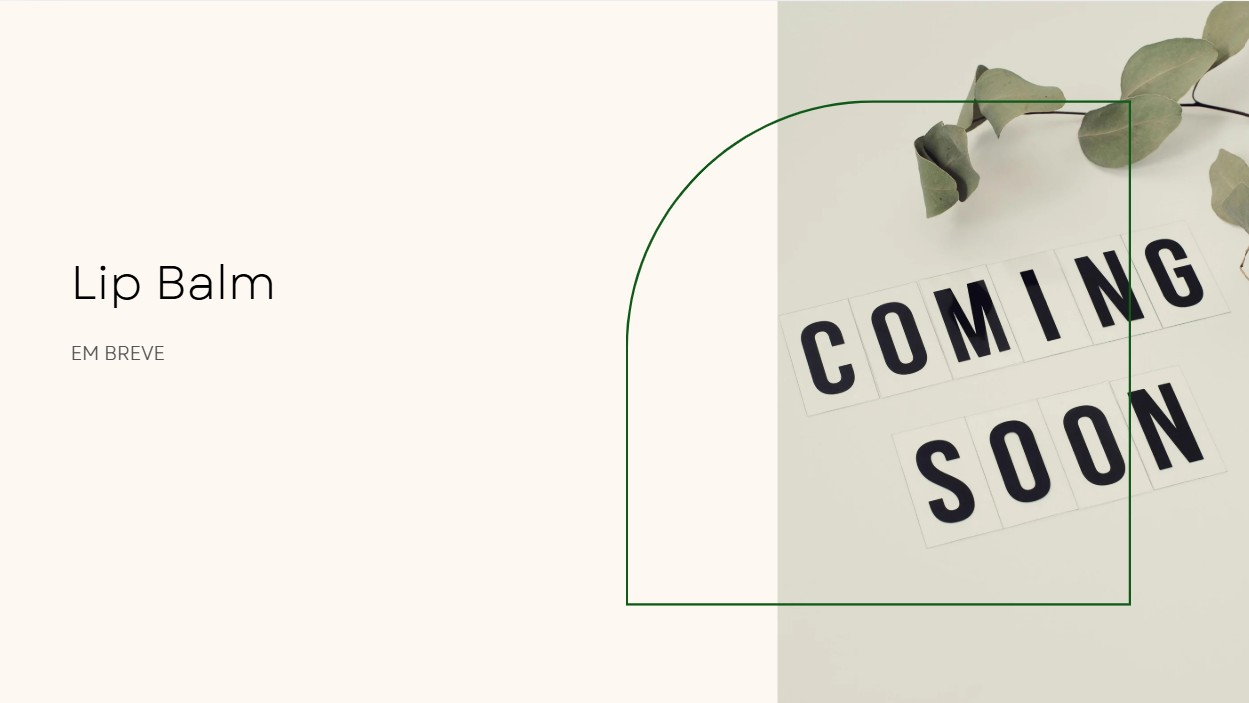
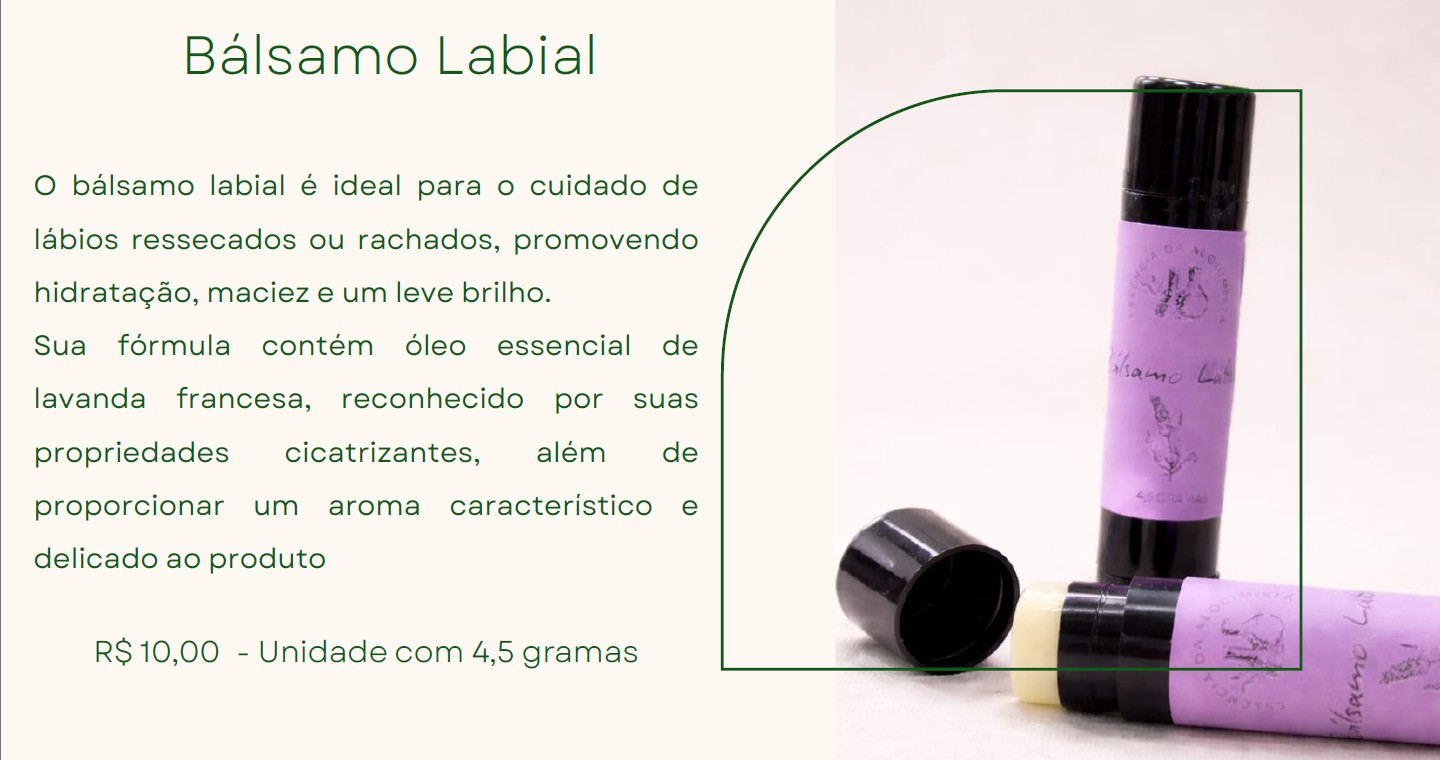
instagram

diff --git a/src/App.tsx b/src/App.tsx
@@ -45,20 +45,20 @@ const products = [
     id: 4,
     name: 'Lip Balm',
     description: 'Hidratação profunda e natural para os seus lábios. Fórmula exclusiva em desenvolvimento.',
-    price: 'Em breve',
+    price: 'R$ 25,00',
     image: '/lipbalm.jpg',
     color: 'bg-pink-100/40',
-    isComingSoon: true,
+    isComingSoon: false,
     category: 'cosmetico',
   },
   {
     id: 5,
     name: 'Bruma de Aloe Vera',
     description: 'Refrescância e cuidado botânico para a sua pele. Aguarde nosso próximo lançamento.',
-    price: 'Em breve',
+    price: 'R$ 25,00',
     image: '/bruna.jpg',
     color: 'bg-green-100/40',
-    isComingSoon: true,
+    isComingSoon: false,
     category: 'cosmetico',
   },
 ];
@@ -266,11 +266,6 @@ export default function App() {
                   className="w-full h-auto object-cover group-hover:scale-[1.03] transition-transform duration-700"
                   referrerPolicy="no-referrer"
                 />
-                
-                <div className="absolute inset-0 bg-gradient-to-t from-black/60 via-transparent to-transparent opacity-0 group-hover:opacity-100 transition-opacity duration-500 flex flex-col justify-end p-8">
-                   <h3 className="text-white text-2xl font-serif italic mb-2">{product.name}</h3>
-                   <p className="text-white/80 text-sm italic font-light mb-4">{product.description}</p>
-                </div>
 
                 <button 
                   onClick={() => handleWhatsAppClick(product.name)}
@@ -313,7 +308,7 @@ export default function App() {
       {/* Footer */}
       <footer id="contato" className="bg-[#1A2E1A] text-white pt-16 pb-8">
         <div className="max-w-7xl mx-auto px-4 sm:px-6 lg:px-8">
-          <div className="grid grid-cols-1 md:grid-cols-3 gap-12 mb-12">
+          <div className="grid grid-cols-1 md:grid-cols-2 lg:grid-cols-4 gap-12 mb-12">
             <div>
               <div className="flex items-center gap-3 mb-6">
                 <div className="bg-white/90 rounded-full p-1">
@@ -338,6 +333,19 @@ export default function App() {
                   [email redacted]
                 </li>
               </ul>
+            </div>
+
+            <div>
+              <h4 className="font-serif text-2xl font-medium italic tracking-wide mb-6 text-white">Instagram</h4>
+              <a 
+                href="https://www.instagram.com/essencia_alquimista?utm_source=qr&igsh=MTlkaDlsNmdmOXdiYQ%3D%3D" 
+                target="_blank" 
+                rel="noopener noreferrer"
+                className="flex items-center gap-3 text-white/70 hover:text-leaf-light transition-colors text-lg italic tracking-wide font-light"
+              >
+                <Instagram className="w-5 h-5 not-italic" />
+                @essencia_alquimista
+              </a>
             </div>
 
             <div>